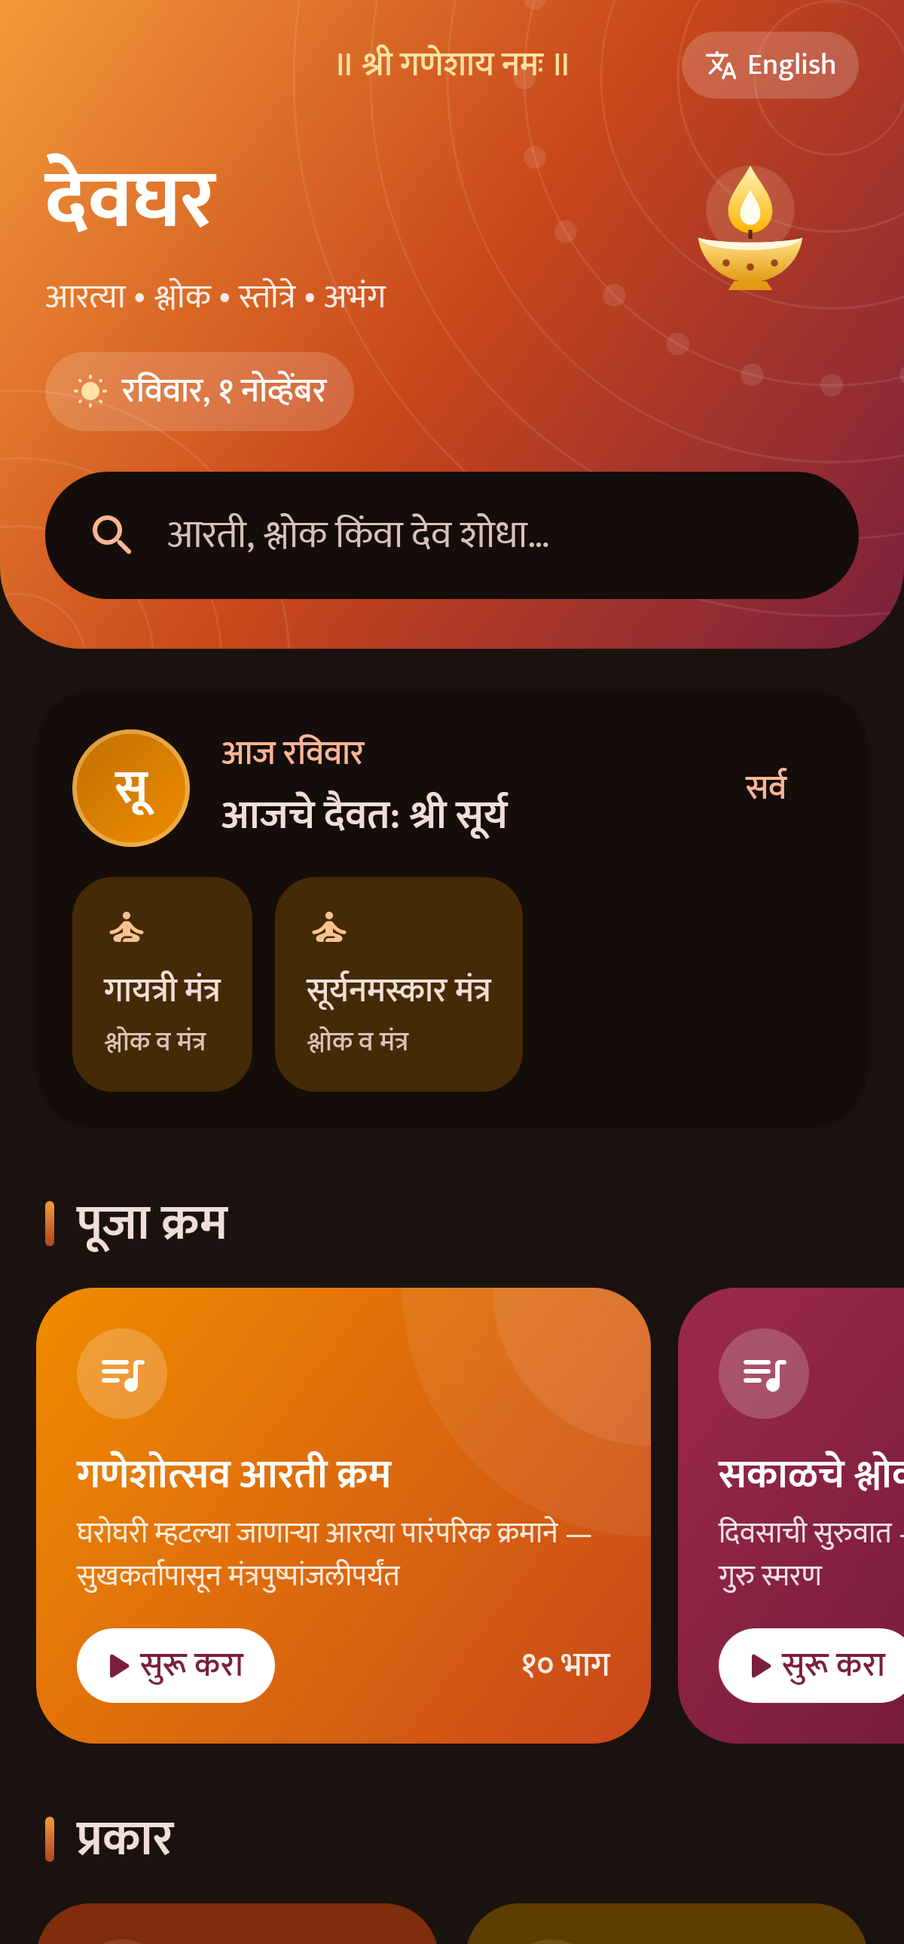
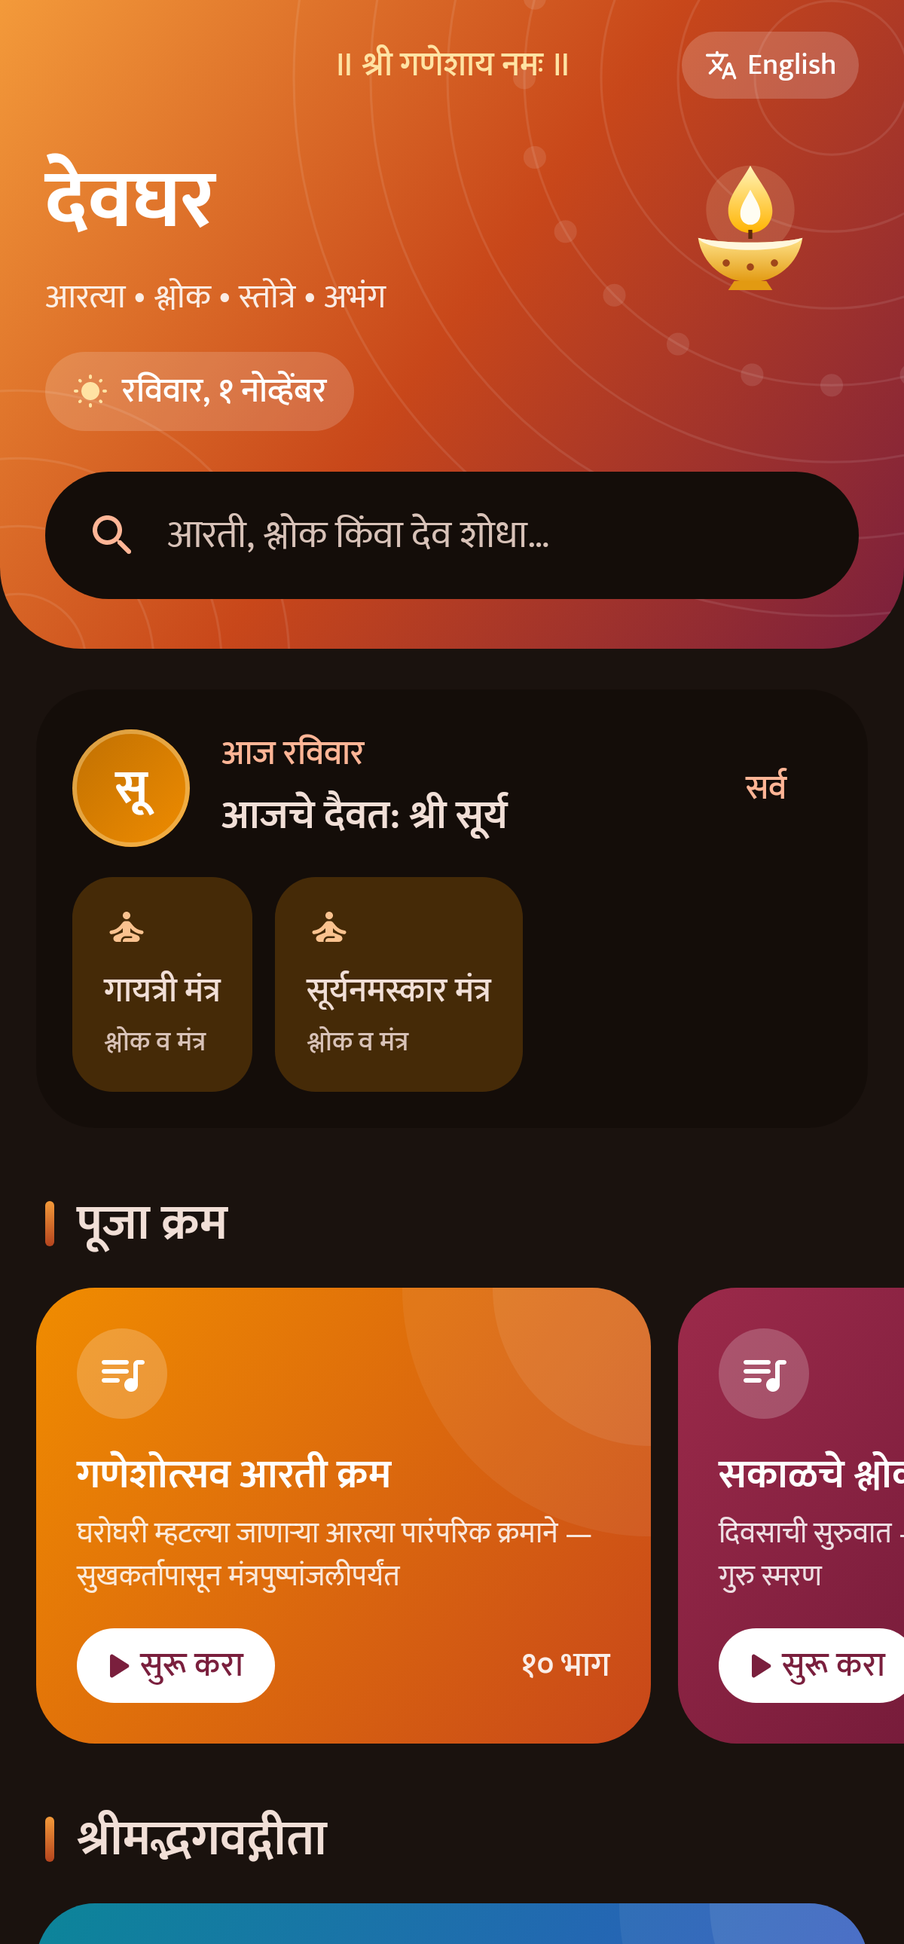
Give the Bhagavad Gita its own home section and space out its shlokas
The home screen gets a "श्रीमद्भगवद्गीता" section: a card that reads the whole
Gita in order and a row of all 18 chapters. The Gita leaves the pooja
sequences row and the category grid, since it now has a place of its own.
In the reader, a divider sets each shloka (with its meaning) apart from the
next.

Changed region(s): [[0.0308, 0.9302, 0.9558, 1.0]]

diff --git a/app/src/main/java/com/nilkanth/aartisangrah/ui/screens/HomeScreen.kt b/app/src/main/java/com/nilkanth/aartisangrah/ui/screens/HomeScreen.kt
@@ -53,6 +53,7 @@ import com.nilkanth.aartisangrah.R
 import com.nilkanth.aartisangrah.data.AppRelease
 import com.nilkanth.aartisangrah.data.Library
 import com.nilkanth.aartisangrah.data.Marathi
+import com.nilkanth.aartisangrah.data.Playlist
 import com.nilkanth.aartisangrah.ui.LocalStrings
 import com.nilkanth.aartisangrah.ui.components.DeityAvatar
 import com.nilkanth.aartisangrah.ui.components.ItemCard
@@ -86,10 +87,12 @@ fun HomeScreen(
         item { Hero(onOpenSearch, onToggleLanguage) }
         if (appUpdate != null) item { UpdateBanner(appUpdate) { onDownloadUpdate(appUpdate) } }
         item { TodayCard(library, onOpenReader, onOpenList) }
-        if (library.playlists.isNotEmpty()) {
+        val sequences = library.playlists.filter { it.id != GITA }
+        if (sequences.isNotEmpty()) {
             item { SectionTitle(strings.poojaSequences) }
-            item { PlaylistRow(library, onOpenReader) }
+            item { PlaylistRow(sequences, onOpenReader) }
         }
+        item { GitaSection(library, onOpenReader) }
         item { SectionTitle(strings.categories) }
         item { CategoryGrid(library, onOpenList) }
         item { SectionTitle(strings.deities) }
@@ -301,10 +304,10 @@ private val playlistBrushes = listOf(
 )
 
 @Composable
-private fun PlaylistRow(library: Library, onOpenReader: (List<String>, Int, String) -> Unit) {
+private fun PlaylistRow(playlists: List<Playlist>, onOpenReader: (List<String>, Int, String) -> Unit) {
     val strings = LocalStrings.current
     LazyRow(contentPadding = PaddingValues(horizontal = 16.dp), horizontalArrangement = Arrangement.spacedBy(12.dp)) {
-        itemsIndexed(library.playlists, key = { _, it -> it.id }) { index, playlist ->
+        itemsIndexed(playlists, key = { _, it -> it.id }) { index, playlist ->
             Box(
                 Modifier
                     .width(272.dp)
@@ -340,22 +343,96 @@ private fun PlaylistRow(library: Library, onOpenReader: (List<String>, Int, Stri
                         overflow = TextOverflow.Ellipsis,
                     )
                     Spacer(Modifier.height(12.dp))
-                    Row(verticalAlignment = Alignment.CenterVertically) {
-                        Row(
-                            Modifier
-                                .clip(RoundedCornerShape(50))
-                                .background(Color.White)
-                                .padding(start = 8.dp, end = 14.dp, top = 4.dp, bottom = 4.dp),
-                            verticalAlignment = Alignment.CenterVertically,
-                        ) {
-                            Icon(Icons.Rounded.PlayArrow, contentDescription = null, tint = Color(0xFF7A1F3D), modifier = Modifier.size(20.dp))
-                            Text(strings.start, style = MaterialTheme.typography.labelLarge, color = Color(0xFF7A1F3D))
-                        }
-                        Spacer(Modifier.weight(1f))
+                    StartRow(strings.parts(playlist.itemIds.size))
+                }
+            }
+        }
+    }
+}
+
+/** "▶ Start" on a white pill, with a count on the right; the foot of a gradient card. */
+@Composable
+private fun StartRow(count: String) {
+    Row(verticalAlignment = Alignment.CenterVertically) {
+        Row(
+            Modifier
+                .clip(RoundedCornerShape(50))
+                .background(Color.White)
+                .padding(start = 8.dp, end = 14.dp, top = 4.dp, bottom = 4.dp),
+            verticalAlignment = Alignment.CenterVertically,
+        ) {
+            Icon(Icons.Rounded.PlayArrow, contentDescription = null, tint = Color(0xFF7A1F3D), modifier = Modifier.size(20.dp))
+            Text(LocalStrings.current.start, style = MaterialTheme.typography.labelLarge, color = Color(0xFF7A1F3D))
+        }
+        Spacer(Modifier.weight(1f))
+        Text(count, style = MaterialTheme.typography.labelLarge, color = Color.White.copy(alpha = 0.9f))
+    }
+}
+
+private const val GITA = "gita"
+
+/** The Gita has a section of its own: the whole Gita in order, then each of its chapters. */
+@Composable
+private fun GitaSection(library: Library, onOpenReader: (List<String>, Int, String) -> Unit) {
+    val strings = LocalStrings.current
+    val category = library.category(GITA) ?: return
+    val playlist = library.playlist(GITA)
+    val chapters = playlist?.let { library.itemsOf(it) } ?: library.itemsInCategory(GITA)
+    if (chapters.isEmpty()) return
+    val ids = chapters.map { it.id }
+    val title = playlist?.let { strings.playlistName(it) } ?: strings.categoryName(category)
+    val deity = library.deity(chapters.first().deity)
+    Column {
+        SectionTitle(strings.categoryName(category))
+        Box(
+            Modifier
+                .padding(horizontal = 16.dp)
+                .fillMaxWidth()
+                .clip(RoundedCornerShape(26.dp))
+                .background(Brush.linearGradient(listOf(Color(0xFF0C8599), Color(0xFF364FC7))))
+                .clickable { onOpenReader(ids, 0, title) },
+        ) {
+            Canvas(Modifier.matchParentSize()) {
+                drawCircle(Color.White.copy(alpha = 0.08f), radius = 70.dp.toPx(), center = Offset(size.width, 0f))
+                drawCircle(Color.White.copy(alpha = 0.06f), radius = 110.dp.toPx(), center = Offset(size.width, 0f))
+            }
+            Column(Modifier.padding(18.dp)) {
+                Box(
+                    Modifier.size(40.dp).clip(CircleShape).background(Color.White.copy(alpha = 0.2f)),
+                    contentAlignment = Alignment.Center,
+                ) {
+                    Icon(categoryIcon(GITA), contentDescription = null, tint = Color.White)
+                }
+                Spacer(Modifier.height(10.dp))
+                Text(title, style = MaterialTheme.typography.titleMedium, color = Color.White)
+                Text(
+                    strings.categoryDescription(category),
+                    style = MaterialTheme.typography.bodySmall,
+                    color = Color.White.copy(alpha = 0.85f),
+                )
+                Spacer(Modifier.height(12.dp))
+                StartRow(strings.chapters(chapters.size))
+            }
+        }
+        Spacer(Modifier.height(12.dp))
+        LazyRow(contentPadding = PaddingValues(horizontal = 16.dp), horizontalArrangement = Arrangement.spacedBy(10.dp)) {
+            itemsIndexed(chapters, key = { _, it -> "gita-row-" + it.id }) { index, chapter ->
+                Surface(
+                    onClick = { onOpenReader(ids, index, title) },
+                    shape = RoundedCornerShape(18.dp),
+                    color = deityColor(deity).copy(alpha = if (LocalIsDark.current) 0.22f else 0.10f),
+                    modifier = Modifier.width(150.dp),
+                ) {
+                    Column(Modifier.padding(horizontal = 14.dp, vertical = 12.dp)) {
+                        Text(strings.chapter(index + 1), style = MaterialTheme.typography.labelLarge, color = deityTextColor(deity))
+                        Spacer(Modifier.height(4.dp))
                         Text(
-                            strings.parts(playlist.itemIds.size),
-                            style = MaterialTheme.typography.labelLarge,
-                            color = Color.White.copy(alpha = 0.9f),
+                            // "गीता अध्याय २ — सांख्ययोग" → "सांख्ययोग"
+                            (if (strings.english) chapter.titleEn.ifBlank { chapter.title } else chapter.title).substringAfter(" — "),
+                            style = MaterialTheme.typography.titleSmall,
+                            maxLines = 2,
+                            minLines = 2,
+                            overflow = TextOverflow.Ellipsis,
                         )
                     }
                 }
@@ -376,7 +453,8 @@ private fun CategoryGrid(library: Library, onOpenList: (String, String) -> Unit)
         (if (dark) Color(0xFF2B3270) else Color(0xFFE3E7FF)) to (if (dark) Color(0xFFDDE1FF) else Color(0xFF1E2A78)),
     )
     Column(Modifier.padding(horizontal = 16.dp), verticalArrangement = Arrangement.spacedBy(12.dp)) {
-        library.categories.chunked(2).forEachIndexed { row, pair ->
+        // The Gita has its own section above.
+        library.categories.filter { it.id != GITA }.chunked(2).forEachIndexed { row, pair ->
             Row(horizontalArrangement = Arrangement.spacedBy(12.dp)) {
                 pair.forEachIndexed { col, category ->
                     val (bg, fg) = tints[(row * 2 + col) % tints.size]
@@ -410,7 +488,6 @@ private fun CategoryGrid(library: Library, onOpenList: (String, String) -> Unit)
                         }
                     }
                 }
-                // An odd last category (the Gita) spans the whole row.
             }
         }
     }

diff --git a/web/app.js b/web/app.js
@@ -52,6 +52,7 @@
       start: 'सुरू करा', all: 'सर्व', footer: 'खाते नाही • जाहिराती नाहीत • इंटरनेटशिवायही चालते',
       today: d => `आज ${MR_DAYS[d.getDay()]}`, deityOfDay: n => `आजचे दैवत: ${n}`,
       parts: n => `${mrNum(n)} भाग`, texts: n => `${mrNum(n)} रचना`,
+      chapter: n => `अध्याय ${mrNum(n)}`, chapters: n => `${mrNum(n)} अध्याय`,
       textSize: 'अक्षरांचा आकार', share: 'शेअर करा', prev: 'मागील', next: 'पुढील',
       addFav: 'आवडत्यांत जोडा', removeFav: 'आवडत्यांतून काढा', shareFooter: '— देवघर', by: a => `रचना: ${a}`,
       searchSub: 'मराठी किंवा इंग्रजीत शोधा — उदा. सुखकर्ता, ganpati, ramraksha', searchPh: 'आरती, श्लोक, देव किंवा ओळ…',
@@ -99,6 +100,7 @@
       start: 'Start', all: 'All', footer: 'No account • No ads • Works offline',
       today: d => `Today is ${EN_DAYS[d.getDay()]}`, deityOfDay: n => `Deity of the day: ${n}`,
       parts: n => (n === 1 ? '1 part' : `${n} parts`), texts: n => (n === 1 ? '1 text' : `${n} texts`),
+      chapter: n => `Chapter ${n}`, chapters: n => (n === 1 ? '1 chapter' : `${n} chapters`),
       textSize: 'Text size', share: 'Share', prev: 'Previous', next: 'Next',
       addFav: 'Add to favourites', removeFav: 'Remove from favourites', shareFooter: '— Devghar', by: a => `By ${a}`,
       searchSub: 'Type in English or Marathi — e.g. ganpati, ramraksha, सुखकर्ता', searchPh: 'Aarti, shloka, deity or a line…',
@@ -197,6 +199,7 @@
     ? '<span class="glyph" aria-hidden="true">ॐ</span>'
     : icon({ aarti: 'flame', stotra: 'book', abhang: 'note' }[id] || 'book'));
 
+  const GITA = 'gita'; // category and playlist id; the Gita gets its own home section
   const ORNAMENT = '<svg class="ornament" viewBox="0 0 300 18" aria-hidden="true">'
     + '<rect x="66" y="8.4" width="68" height="1.2" fill="currentColor" opacity=".35"/>'
     + '<rect x="166" y="8.4" width="68" height="1.2" fill="currentColor" opacity=".35"/>'
@@ -376,6 +379,7 @@
     const todayIds = todayItems.map(i => i.id);
     const recents = state.recents.map(id => lib.byId.get(id)).filter(Boolean);
     const deities = lib.deities.filter(x => lib.items.some(i => i.deity === x.id));
+    const sequences = lib.playlists.filter(p => p.id !== GITA);
 
     return `
     <section class="hero">${RINGS}
@@ -399,14 +403,15 @@
           <b lang="mr">${esc(it.title)}</b><small>${esc(catName(lib.catMap.get(it.category) || {}))}</small></a>`).join('')}
       </div>
     </section>` : ''}
-    ${lib.playlists.length ? `<h2 class="section">${esc(s.sequences)}</h2>
-    <div class="hscroll">${lib.playlists.map((p, k) => `
+    ${sequences.length ? `<h2 class="section">${esc(s.sequences)}</h2>
+    <div class="hscroll">${sequences.map((p, k) => `
       <a class="playlist pl-${k % 4}" href="${readHref(p.items, 0, plName(p))}">
         <span class="pl-icon">${icon('queue')}</span><h3>${esc(plName(p))}</h3><p>${esc(plDesc(p))}</p>
         <span class="pl-foot"><span class="pl-start">${icon('play')}${esc(s.start)}</span><span class="pl-count">${esc(s.parts(p.items.length))}</span></span>
       </a>`).join('')}</div>` : ''}
+    ${gitaSection()}
     <h2 class="section">${esc(s.categories)}</h2>
-    <div class="cat-grid">${lib.categories.map((c, k) => `
+    <div class="cat-grid">${lib.categories.filter(c => c.id !== GITA).map((c, k) => `
       <a class="cat cat-${k % 4}" href="#/list/category/${esc(c.id)}"><span class="cat-icon">${catIcon(c.id)}</span>
         <b>${esc(catName(c))}</b><small>${esc(s.texts(lib.items.filter(i => i.category === c.id).length))}</small></a>`).join('')}
     </div>
@@ -416,6 +421,29 @@
     </div>
     ${recents.length ? `<h2 class="section">${esc(s.recent)}</h2>${itemList(recents, s.recent)}` : ''}
     <footer class="foot">${ORNAMENT}<div class="blessing" lang="mr">॥ शुभं भवतु ॥</div><small>${esc(s.footer)}</small></footer>`;
+  }
+
+  /** The Gita has a section of its own: the whole Gita in order, then each of its chapters. */
+  function gitaSection() {
+    const s = S();
+    const c = lib.catMap.get(GITA);
+    const p = lib.playlists.find(x => x.id === GITA);
+    const chapters = (p ? p.items.map(id => lib.byId.get(id)) : lib.items.filter(i => i.category === GITA)).filter(Boolean);
+    if (!c || !chapters.length) return '';
+    const ids = chapters.map(i => i.id);
+    const title = p ? plName(p) : catName(c);
+    const d = lib.deityMap.get(chapters[0].deity);
+    // "गीता अध्याय २ — सांख्ययोग" → "सांख्ययोग"
+    const name = it => (en() && it.titleEn ? it.titleEn : it.title).split(' — ').pop();
+    return `<h2 class="section">${esc(catName(c))}</h2>
+    <a class="playlist gita-card" href="${readHref(ids, 0, title)}">
+      <span class="pl-icon">${catIcon(GITA)}</span><h3>${esc(title)}</h3><p>${esc(catDesc(c))}</p>
+      <span class="pl-foot"><span class="pl-start">${icon('play')}${esc(s.start)}</span><span class="pl-count">${esc(s.chapters(chapters.length))}</span></span>
+    </a>
+    <div class="hscroll gita-chapters">${chapters.map((it, k) => `
+      <a class="mini chapter" style="${deityStyle(d)}" href="${readHref(ids, k, title)}">
+        <small>${esc(s.chapter(k + 1))}</small><b ${en() ? '' : 'lang="mr"'}>${esc(name(it))}</b></a>`).join('')}
+    </div>`;
   }
 
   function listView(r) {
@@ -571,7 +599,7 @@
       ${about ? `<div class="about">${icon('info')}<span>${esc(about)}</span></div>` : ''}
       ${meaningSwitch}
       ${item.refrainFirst ? refrain('rt') : ''}
-      ${item.verses.map((v, k) => `<div class="verse" lang="mr" data-b="v${k}">${linesHtml(v)}</div>${meaning(k)}${refrain(`r${k}`)}`).join('')}
+      ${item.verses.map((v, k) => `${k && item.meanings ? `<div class="shlok-sep">${ORNAMENT}</div>` : ''}<div class="verse" lang="mr" data-b="v${k}">${linesHtml(v)}</div>${meaning(k)}${refrain(`r${k}`)}`).join('')}
       ${ORNAMENT}
     </article>
     <button type="button" class="listen-fab ${pager ? 'above-pager' : ''}" data-action="listen">${icon('headphones')}${esc(s.listen)}</button>

diff --git a/app/src/test/java/com/nilkanth/aartisangrah/ContentAndScreensTest.kt b/app/src/test/java/com/nilkanth/aartisangrah/ContentAndScreensTest.kt
@@ -8,7 +8,11 @@ import androidx.activity.compose.setContent
 import androidx.compose.material3.Surface
 import androidx.compose.runtime.Composable
 import androidx.compose.runtime.CompositionLocalProvider
+import androidx.compose.ui.test.hasScrollToNodeAction
+import androidx.compose.ui.test.hasText
 import androidx.compose.ui.test.junit4.createAndroidComposeRule
+import androidx.compose.ui.test.onFirst
+import androidx.compose.ui.test.performScrollToNode
 import androidx.test.core.app.ApplicationProvider
 import com.nilkanth.aartisangrah.audio.Reciter
 import com.nilkanth.aartisangrah.data.AppLanguage
@@ -180,6 +184,12 @@ class ContentAndScreensTest {
                 22f, false, emptyList(), {}, {}, {}, {}, {},
             )
         }
+        // The Gita's own home section sits above "प्रकार"; scroll down to it.
+        shot("14-home-gita", prepare = {
+            compose.onAllNodes(hasScrollToNodeAction()).onFirst().performScrollToNode(hasText("प्रकार"))
+        }) {
+            HomeScreen(library, emptyList(), emptyList(), null, { _, _, _ -> }, { _, _ -> }, {}, {}, {}, {})
+        }
     }
 
     /** The web app (web/) reuses the launcher icon; iPhones need it as PNG. */
@@ -201,6 +211,7 @@ class ContentAndScreensTest {
         name: String,
         theme: ThemeMode = ThemeMode.LIGHT,
         language: AppLanguage = AppLanguage.MARATHI,
+        prepare: () -> Unit = {},
         content: @Composable () -> Unit,
     ) {
         compose.activity.setContent {
@@ -208,6 +219,8 @@ class ContentAndScreensTest {
                 CompositionLocalProvider(LocalStrings provides Strings.of(language)) { Surface { content() } }
             }
         }
+        compose.waitForIdle()
+        prepare()
         compose.waitForIdle()
         val view = compose.activity.window.decorView
         val bitmap = Bitmap.createBitmap(view.width, view.height, Bitmap.Config.ARGB_8888)

diff --git a/web/app.css b/web/app.css
@@ -138,7 +138,12 @@ h1, h2, h3, p { margin: 0; }
 .pl-count { font-weight: 600; opacity: .92; }
 
 .cat-grid { display: grid; grid-template-columns: 1fr 1fr; gap: 12px; padding: 0 16px; }
-.cat-grid .cat:last-child:nth-child(odd) { grid-column: 1 / -1; } /* an odd last category (the Gita) spans the row */
+.cat-grid .cat:last-child:nth-child(odd) { grid-column: 1 / -1; } /* an odd last category spans the row */
+/* The Gita's own section: a full-width card, then a row of its chapters. */
+.gita-card { width: auto; margin: 0 16px 12px; background: linear-gradient(135deg, #0C8599, #364FC7); }
+.mini.chapter { width: 150px; }
+.mini.chapter small { display: block; color: var(--dt); font-weight: 600; font-size: 14px; }
+.mini.chapter b { margin-top: 4px; white-space: normal; line-height: 1.35; height: 2.7em; overflow: hidden; display: -webkit-box; -webkit-line-clamp: 2; -webkit-box-orient: vertical; }
 .cat { display: block; padding: 16px; border-radius: 24px; min-width: 0; }
 .cat-0 { background: var(--primary-c); color: var(--on-primary-c); }
 .cat-1 { background: var(--secondary-c); color: var(--on-secondary-c); }
@@ -268,6 +273,9 @@ input[type="range"] { width: 100%; accent-color: var(--primary); margin: 10px 0;
 }
 .verse { padding: 12px 0; }
 .verse .speaker { font-size: .78em; color: var(--dt); font-weight: 700; }
+/* A divider between shlokas that have meanings (the Gita), so each reads as its own unit. */
+.shlok-sep { margin: 16px 0 6px; opacity: .5; }
+.shlok-sep .ornament { color: var(--dt); }
 /* Verse meanings (the Gita): follow the text size, stay readable as prose. */
 .meaning-switch { display: flex; align-items: center; gap: 10px; margin: 8px 0 4px; text-align: left; }
 .meaning-switch > span { font-weight: 700; color: var(--muted); }

diff --git a/app/src/main/java/com/nilkanth/aartisangrah/ui/screens/ReaderScreen.kt b/app/src/main/java/com/nilkanth/aartisangrah/ui/screens/ReaderScreen.kt
@@ -342,6 +342,10 @@ private fun ItemPage(
         if (refrain != null && item.refrainFirst) item(key = "refrain-top") { RefrainBlock(refrain, style, "rt", highlight) }
         itemsIndexed(item.verses, key = { i, _ -> "verse-$i" }) { i, verse ->
             Column(horizontalAlignment = Alignment.CenterHorizontally) {
+                // Shlokas with meanings (the Gita) get a divider between them, so each reads as its own unit.
+                if (hasMeanings && i > 0) {
+                    Ornament(Modifier.padding(top = 16.dp, bottom = 6.dp), color = deityTextColor(deity).copy(alpha = 0.5f))
+                }
                 LinesText(
                     text = verse,
                     block = "v$i",

diff --git a/app/src/main/java/com/nilkanth/aartisangrah/ui/Strings.kt b/app/src/main/java/com/nilkanth/aartisangrah/ui/Strings.kt
@@ -51,6 +51,8 @@ class Strings private constructor(val language: AppLanguage) {
         else Marathi.date(date)
     fun parts(n: Int) = t("${num(n)} भाग", if (n == 1) "1 part" else "$n parts")
     fun texts(n: Int) = t("${num(n)} रचना", if (n == 1) "1 text" else "$n texts")
+    fun chapter(n: Int) = t("अध्याय ${num(n)}", "Chapter $n")
+    fun chapters(n: Int) = t("${num(n)} अध्याय", if (n == 1) "1 chapter" else "$n chapters")
 
     // Reader
     val textSize = t("अक्षरांचा आकार", "Text size")

diff --git a/README.md b/README.md
@@ -18,6 +18,7 @@ always stay in Devanagari.
   <img src="docs/screenshots/8-home-english.png" width="230" alt="Home screen with English menus" />
   <img src="docs/screenshots/9-reader-english.png" width="230" alt="Reader with English menus, aarti in Devanagari" />
   <img src="docs/screenshots/7-home-dark.png" width="230" alt="Dark mode" />
+  <img src="docs/screenshots/14-home-gita.png" width="230" alt="The Bhagavad Gita's own section on the home screen" />
 </p>
 
 ## 📥 Download
@@ -55,10 +56,11 @@ switch. It can be kept on the home screen like a normal app and works offline af
 ## ✨ Features
 
 - **60 texts**: 20 aartis, 21 shlokas & mantras, 11 stotras, 8 abhangs (including the complete Haripath)
-- **The complete Bhagavad Gita 📖**: all 18 chapters and 700 verses, each with its **meaning in Marathi
-  and English** under the verse (choose both, one or none with the **अर्थ** switch at the top of a chapter),
-  and the Sanskrit chanted verse by verse. **Complete Bhagavad Gita** under pooja sequences plays all
-  18 chapters in order
+- **The complete Bhagavad Gita 📖**: all 18 chapters and 700 verses in a section of their own on the home
+  screen. Each shloka has its **meaning in Marathi and English** right under it (choose both, one or none
+  with the **अर्थ** switch at the top of a chapter), a divider sets each shloka apart, and the Sanskrit is
+  chanted verse by verse. **Complete Bhagavad Gita** reads all 18 chapters in order, or open any chapter
+  from the row below it
 - **Listen 🎧**: tap **Listen** on any aarti or shloka and it is read aloud line by line in a natural
   Marathi or Hindi voice, with a soft tanpura drone in the background. The line being read is highlighted, so you can follow along
   and learn the pronunciation. There is a **Slow** speed, the tanpura can be switched off, and in a
